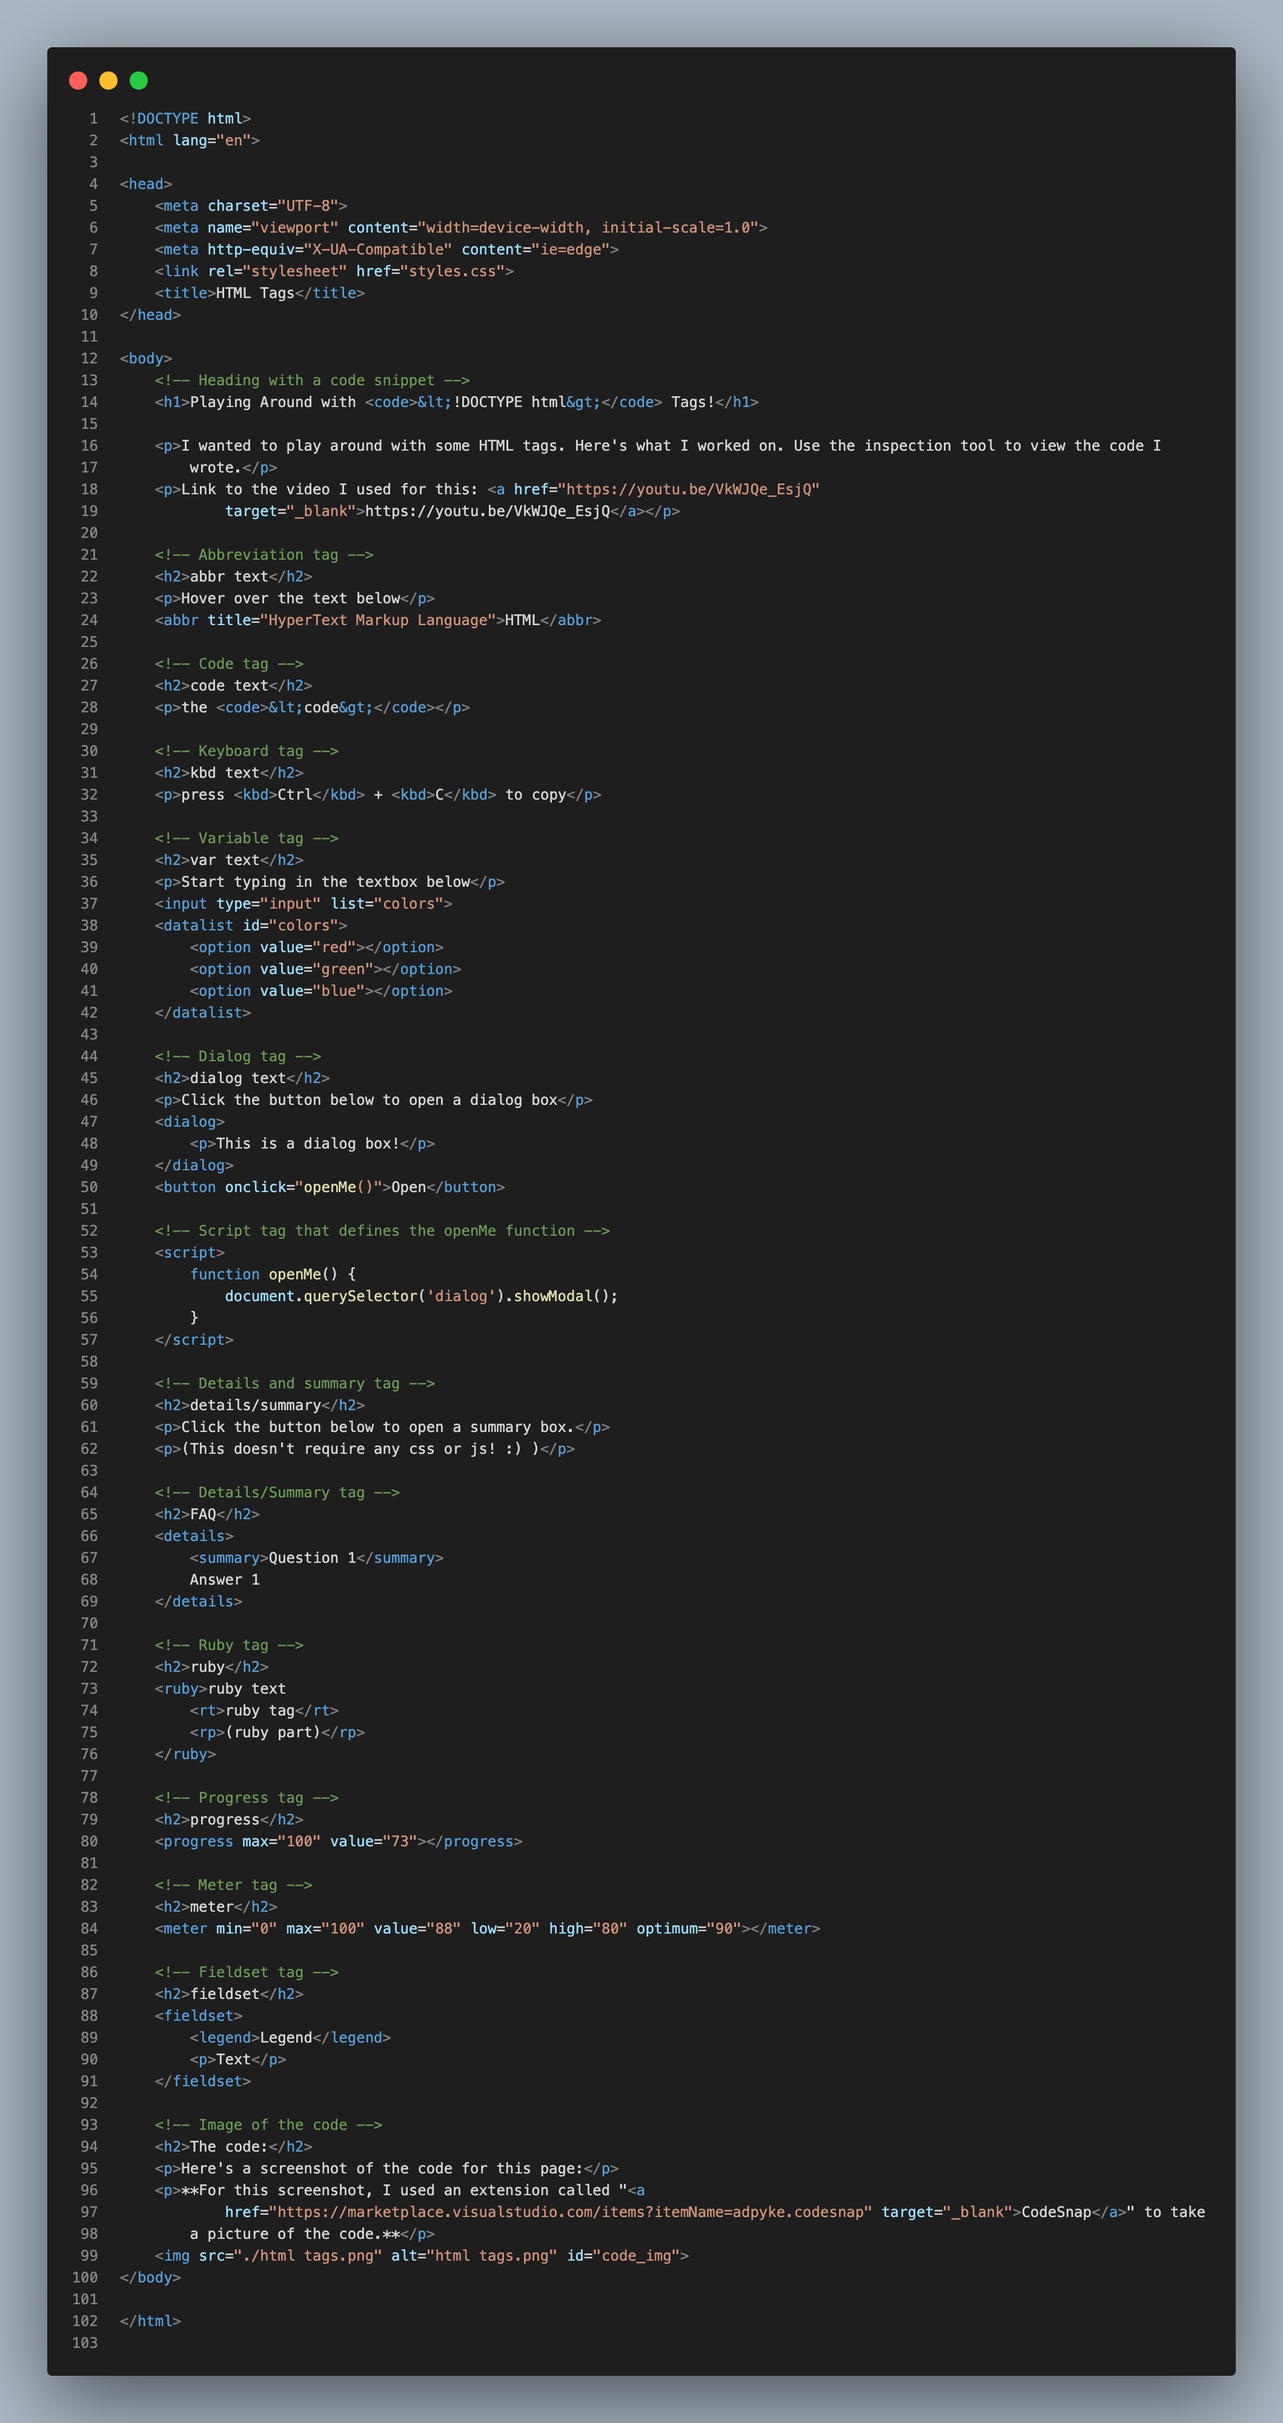
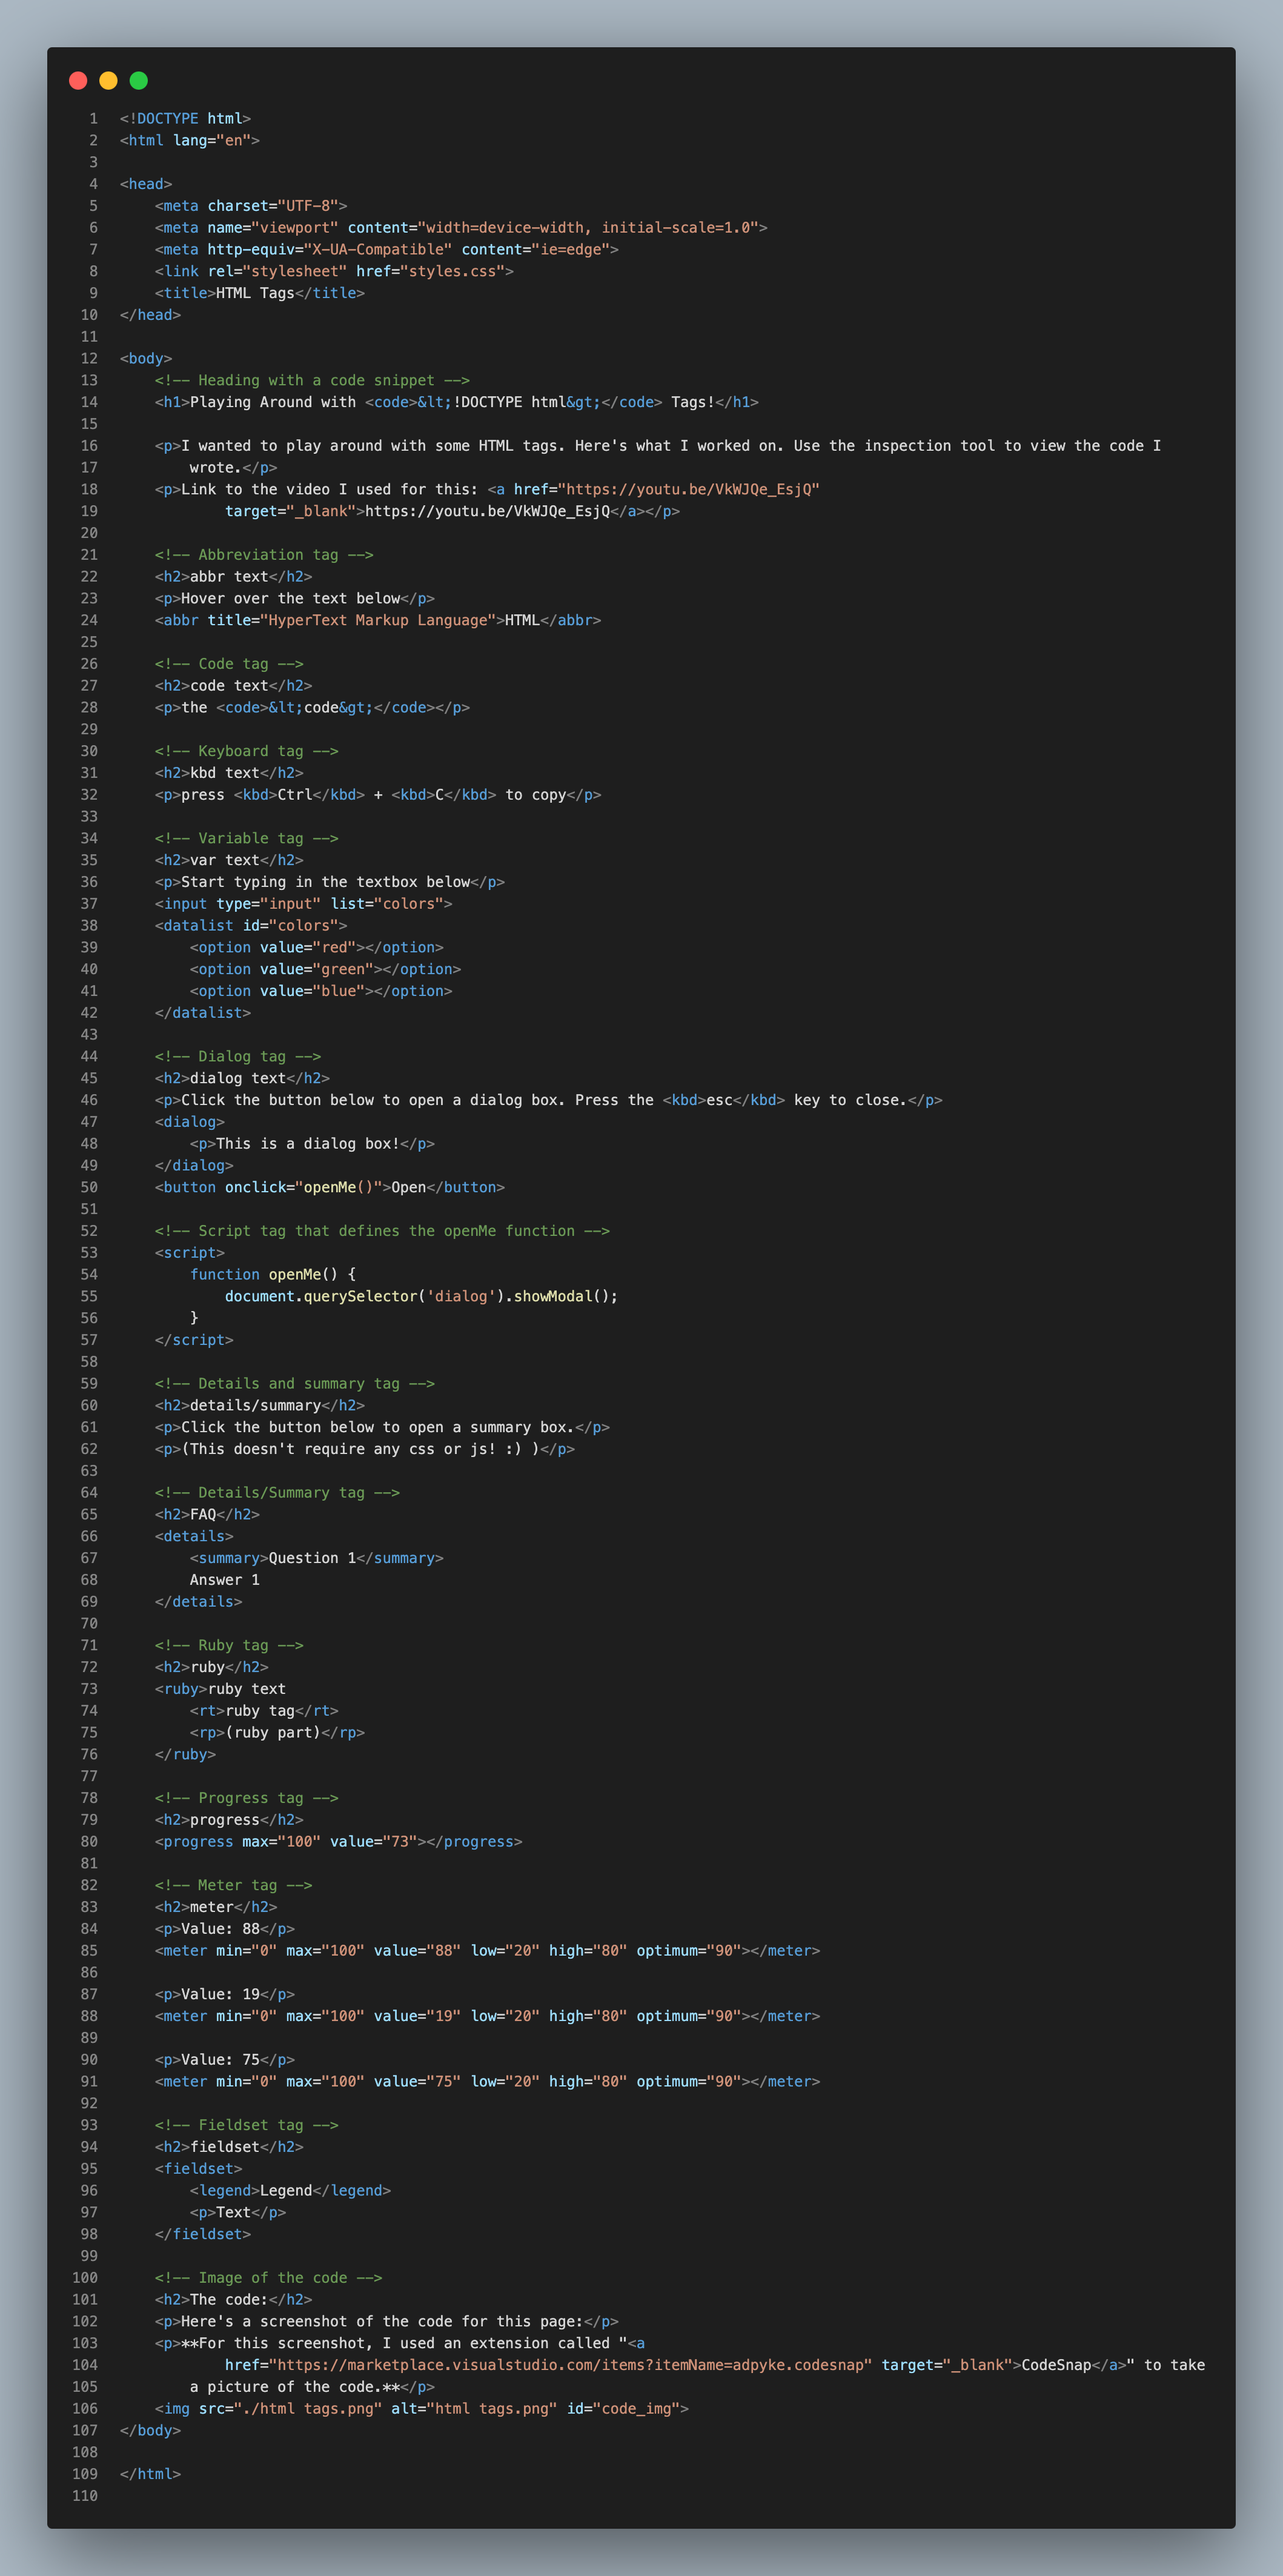
simple updates

diff --git a/index.html b/index.html
@@ -43,7 +43,7 @@
 
     <!-- Dialog tag -->
     <h2>dialog text</h2>
-    <p>Click the button below to open a dialog box</p>
+    <p>Click the button below to open a dialog box. Press the <kbd>esc</kbd> key to close.</p>
     <dialog>
         <p>This is a dialog box!</p>
     </dialog>
@@ -81,7 +81,14 @@
 
     <!-- Meter tag -->
     <h2>meter</h2>
+    <p>Value: 88</p>
     <meter min="0" max="100" value="88" low="20" high="80" optimum="90"></meter>
+
+    <p>Value: 19</p>
+    <meter min="0" max="100" value="19" low="20" high="80" optimum="90"></meter>
+
+    <p>Value: 75</p>
+    <meter min="0" max="100" value="75" low="20" high="80" optimum="90"></meter>
 
     <!-- Fieldset tag -->
     <h2>fieldset</h2>

diff --git a/styles.css b/styles.css
@@ -13,8 +13,8 @@ kbd {
     font-size: 100%;
     line-height: 1;
     color: #fff;
-    background-color: #007bff;
-    border: 1px solid #007bff;
+    background-color: #919497;
+    border: 1px solid #454546;
     border-radius: 3px;
     box-shadow: none;
     cursor: pointer;
